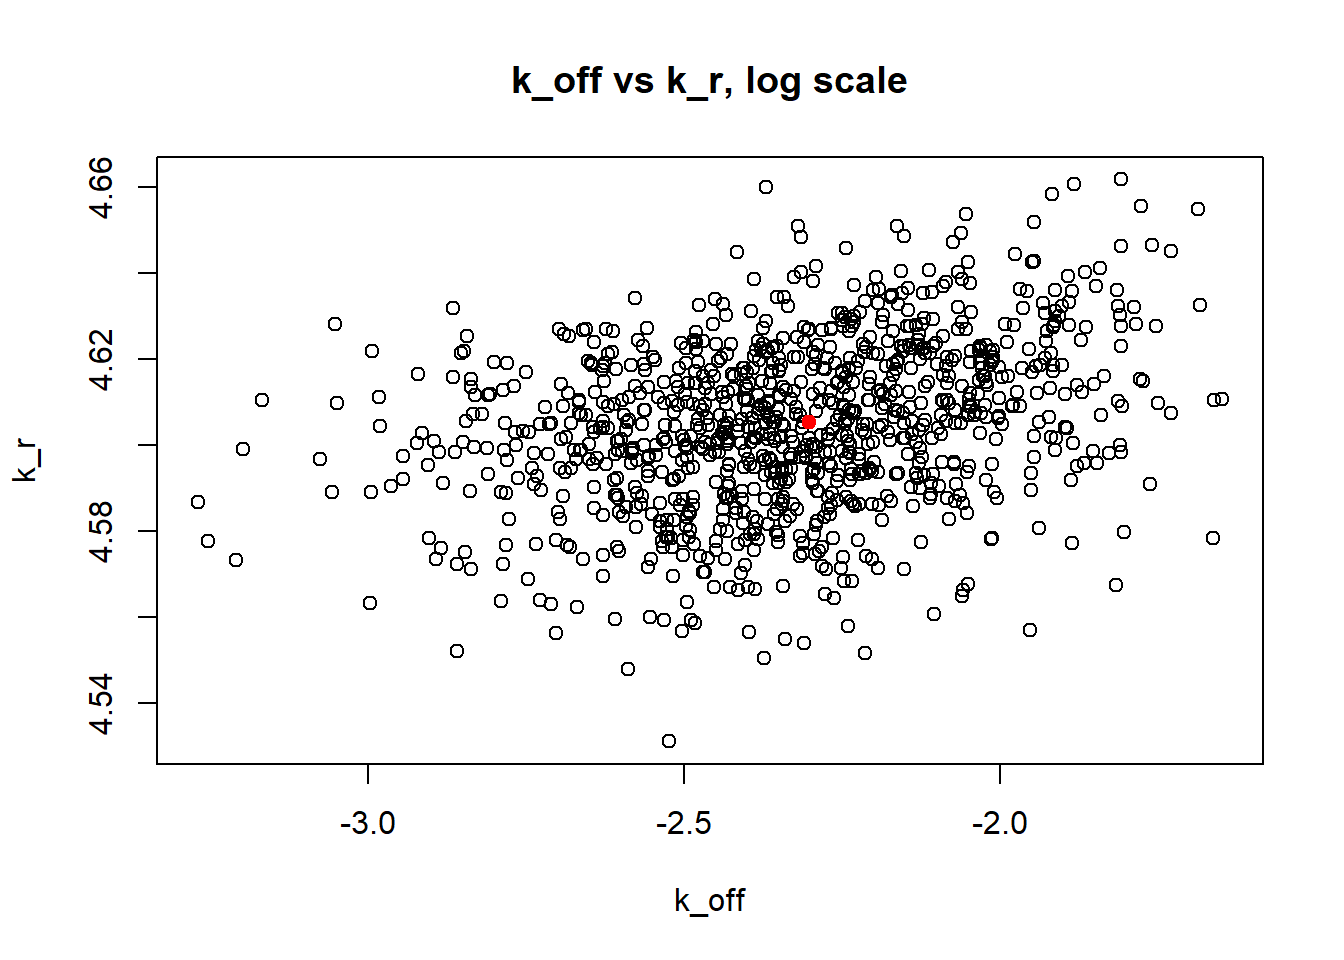
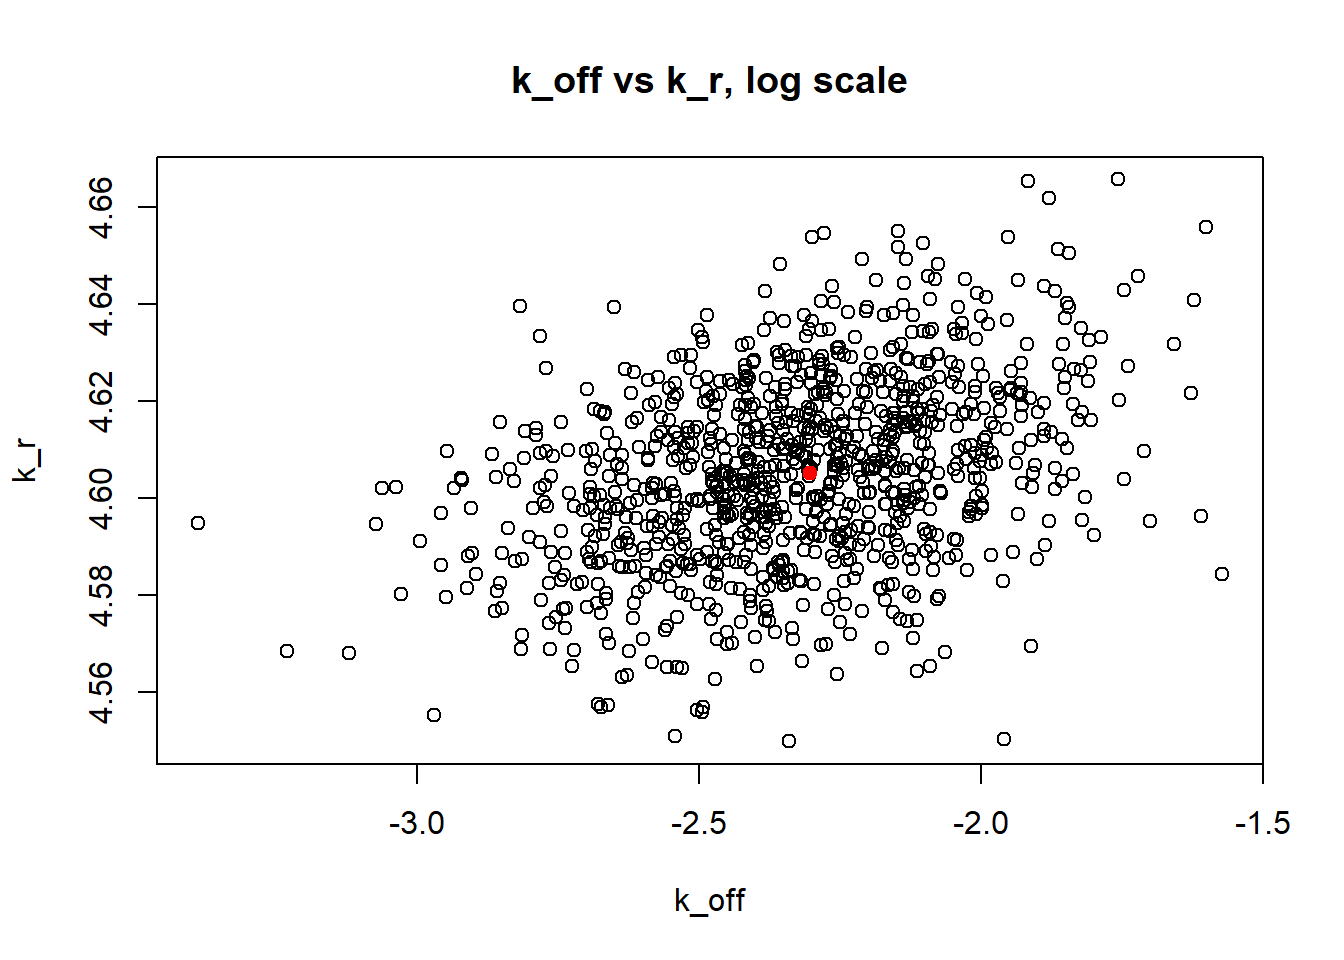
Build site.

diff --git a/docs/MLE_estimates.html b/docs/MLE_estimates.html
@@ -459,10 +459,10 @@ analysis/MLE.py
 <div class="panel panel-default">
 <div class="panel-heading">
 <p class="panel-title">
-<a data-toggle="collapse" data-parent="#workflowr-checks" href="#strongRepositoryversionstrongahrefhttpsgithubcomMargareth2407ThesissingleRNAtreefca9dc316366c141a6f87451b73e5bd2da6a3c01targetblankfca9dc3a"> <span class="glyphicon glyphicon-ok text-success" aria-hidden="true"></span> <strong>Repository version:</strong> <a href="https://github.com/Margareth2407/Thesis_single_RNA/tree/fca9dc316366c141a6f87451b73e5bd2da6a3c01" target="_blank">fca9dc3</a> </a>
+<a data-toggle="collapse" data-parent="#workflowr-checks" href="#strongRepositoryversionstrongahrefhttpsgithubcomMargareth2407ThesissingleRNAtree4f04f01562acaa952ee0c942a661b1bf4d9dd845targetblank4f04f01a"> <span class="glyphicon glyphicon-ok text-success" aria-hidden="true"></span> <strong>Repository version:</strong> <a href="https://github.com/Margareth2407/Thesis_single_RNA/tree/4f04f01562acaa952ee0c942a661b1bf4d9dd845" target="_blank">4f04f01</a> </a>
 </p>
 </div>
[2 lines of base64/hex data omitted]
 <div class="panel-body">
 <p>
 Great! You are using Git for version control. Tracking code development and connecting the code version to the results is critical for reproducibility. The version displayed above was the version of the Git repository at the time these results were generated. <br><br> Note that you need to be careful to ensure that all relevant files for the analysis have been committed to Git prior to generating the results (you can use <code>wflow_publish</code> or <code>wflow_git_commit</code>). workflowr only checks the R Markdown file, but you know if there are other scripts or data files that it depends on. Below is the status of the Git repository when the results were generated:
@@ -511,44 +511,44 @@ There are no past versions. Publish this analysis with <code>wflow_publish()</co
 <div id="i-small-k_on-and-k_off-case" class="section level2">
 <h2>I) Small <span class="math inline">\(k_{on}\)</span> and <span class="math inline">\(k_{off}\)</span> case:</h2>
 <p><img src="figure/MLE_estimates.Rmd/unnamed-chunk-2-1.png" width="672" style="display: block; margin: auto;" /></p>
-<pre><code>[1] &quot;true k_on is 0.1; k_on mean 0.1 k_on median 0.098&quot;</code></pre>
+<pre><code>[1] &quot;true k_on is 0.1; k_on mean 0.1 k_on median 0.099&quot;</code></pre>
 <p><img src="figure/MLE_estimates.Rmd/unnamed-chunk-2-2.png" width="672" style="display: block; margin: auto;" /></p>
-<pre><code>[1] &quot;true k_off is 0.1; k_off mean 0.101 k_off median 0.096&quot;</code></pre>
+<pre><code>[1] &quot;true k_off is 0.1; k_off mean 0.101 k_off median 0.098&quot;</code></pre>
 <p><img src="figure/MLE_estimates.Rmd/unnamed-chunk-2-3.png" width="672" style="display: block; margin: auto;" /></p>
-<pre><code>[1] &quot;true k_r is 100; k_r mean 99.956 k_r median 99.973&quot;</code></pre>
+<pre><code>[1] &quot;true k_r is 100; k_r mean 100.035 k_r median 100.048&quot;</code></pre>
 <p><img src="figure/MLE_estimates.Rmd/unnamed-chunk-2-4.png" width="672" style="display: block; margin: auto;" /><img src="figure/MLE_estimates.Rmd/unnamed-chunk-2-5.png" width="672" style="display: block; margin: auto;" /><img src="figure/MLE_estimates.Rmd/unnamed-chunk-2-6.png" width="672" style="display: block; margin: auto;" /></p>
 <p>Small <span class="math inline">\(k_{on}\)</span> and <span class="math inline">\(k_{off}\)</span> leads to bimodal distribution. As we see from histograms, mean and median MLE estimates are centered around true value.</p>
 </div>
 <div id="ii-large-k_on-and-k_off-case" class="section level2">
 <h2>II) Large <span class="math inline">\(k_{on}\)</span> and <span class="math inline">\(k_{off}\)</span> case:</h2>
 <p><img src="figure/MLE_estimates.Rmd/unnamed-chunk-3-1.png" width="672" style="display: block; margin: auto;" /></p>
-<pre><code>[1] &quot;true k_on is 10; k_on mean 11.6 k_on median 9.995&quot;</code></pre>
+<pre><code>[1] &quot;true k_on is 10; k_on mean 11.49 k_on median 9.743&quot;</code></pre>
 <p><img src="figure/MLE_estimates.Rmd/unnamed-chunk-3-2.png" width="672" style="display: block; margin: auto;" /></p>
-<pre><code>[1] &quot;true k_off is 10; k_off mean 61.625 k_off median 9.543&quot;</code></pre>
+<pre><code>[1] &quot;true k_off is 10; k_off mean 70.312 k_off median 8.611&quot;</code></pre>
 <p><img src="figure/MLE_estimates.Rmd/unnamed-chunk-3-3.png" width="672" style="display: block; margin: auto;" /></p>
-<pre><code>[1] &quot;true k_r is 100; k_r mean 224.246 k_r median 99.161&quot;</code></pre>
+<pre><code>[1] &quot;true k_r is 100; k_r mean 253.411 k_r median 95.224&quot;</code></pre>
 <p><img src="figure/MLE_estimates.Rmd/unnamed-chunk-3-4.png" width="672" style="display: block; margin: auto;" /><img src="figure/MLE_estimates.Rmd/unnamed-chunk-3-5.png" width="672" style="display: block; margin: auto;" /><img src="figure/MLE_estimates.Rmd/unnamed-chunk-3-6.png" width="672" style="display: block; margin: auto;" /></p>
 <p>Large <span class="math inline">\(k_{on}\)</span> and <span class="math inline">\(k_{off}\)</span> case lead to Poisson or negative binomial distribution and as we can see parameters are not identifiable.</p>
 </div>
 <div id="iii-large-value-if-k_off-and-small-k_on-case" class="section level2">
 <h2>III) Large value if <span class="math inline">\(k_{off}\)</span> and small <span class="math inline">\(k_{on}\)</span> case:</h2>
 <p><img src="figure/MLE_estimates.Rmd/unnamed-chunk-4-1.png" width="672" style="display: block; margin: auto;" /></p>
-<pre><code>[1] &quot;true k_on is 1; k_on mean 0.984 k_on median 0.959&quot;</code></pre>
+<pre><code>[1] &quot;true k_on is 1; k_on mean 0.989 k_on median 0.975&quot;</code></pre>
 <p><img src="figure/MLE_estimates.Rmd/unnamed-chunk-4-2.png" width="672" style="display: block; margin: auto;" /></p>
-<pre><code>[1] &quot;true k_off is 10; k_off mean 43.289 k_off median 7.079&quot;</code></pre>
+<pre><code>[1] &quot;true k_off is 10; k_off mean 37.978 k_off median 7.091&quot;</code></pre>
 <p><img src="figure/MLE_estimates.Rmd/unnamed-chunk-4-3.png" width="672" style="display: block; margin: auto;" /></p>
-<pre><code>[1] &quot;true k_r is 100; k_r mean 364.095 k_r median 75.34&quot;</code></pre>
+<pre><code>[1] &quot;true k_r is 100; k_r mean 318.285 k_r median 75.216&quot;</code></pre>
 <p><img src="figure/MLE_estimates.Rmd/unnamed-chunk-4-4.png" width="672" style="display: block; margin: auto;" /><img src="figure/MLE_estimates.Rmd/unnamed-chunk-4-5.png" width="672" style="display: block; margin: auto;" /><img src="figure/MLE_estimates.Rmd/unnamed-chunk-4-6.png" width="672" style="display: block; margin: auto;" /></p>
 <p>k_on parameter being estimated correctly, while k_off and k_r are non-identifiable.</p>
 </div>
 <div id="iv-small-value-if-k_off-and-big-k_on" class="section level2">
 <h2>IV) Small value if <span class="math inline">\(k_{off}\)</span> and big <span class="math inline">\(k_{on}\)</span></h2>
 <p><img src="figure/MLE_estimates.Rmd/unnamed-chunk-5-1.png" width="672" style="display: block; margin: auto;" /></p>
-<pre><code>[1] &quot;true k_on is 10; k_on mean 13.6 k_on median 10.288&quot;</code></pre>
+<pre><code>[1] &quot;true k_on is 10; k_on mean 14.264 k_on median 10.14&quot;</code></pre>
 <p><img src="figure/MLE_estimates.Rmd/unnamed-chunk-5-2.png" width="672" style="display: block; margin: auto;" /></p>
-<pre><code>[1] &quot;true k_off is 1; k_off mean 3.175 k_off median 1.237&quot;</code></pre>
+<pre><code>[1] &quot;true k_off is 1; k_off mean 4.898 k_off median 1.154&quot;</code></pre>
 <p><img src="figure/MLE_estimates.Rmd/unnamed-chunk-5-3.png" width="672" style="display: block; margin: auto;" /></p>
-<pre><code>[1] &quot;true k_r is 100; k_r mean 97.442 k_r median 100.491&quot;</code></pre>
+<pre><code>[1] &quot;true k_r is 100; k_r mean 101.197 k_r median 99.967&quot;</code></pre>
 <p><img src="figure/MLE_estimates.Rmd/unnamed-chunk-5-4.png" width="672" style="display: block; margin: auto;" /><img src="figure/MLE_estimates.Rmd/unnamed-chunk-5-5.png" width="672" style="display: block; margin: auto;" /><img src="figure/MLE_estimates.Rmd/unnamed-chunk-5-6.png" width="672" style="display: block; margin: auto;" /></p>
 <p>Ref. <a href="https://www.nature.com/articles/s41586-018-0836-1" class="uri">https://www.nature.com/articles/s41586-018-0836-1</a></p>
 <br>
